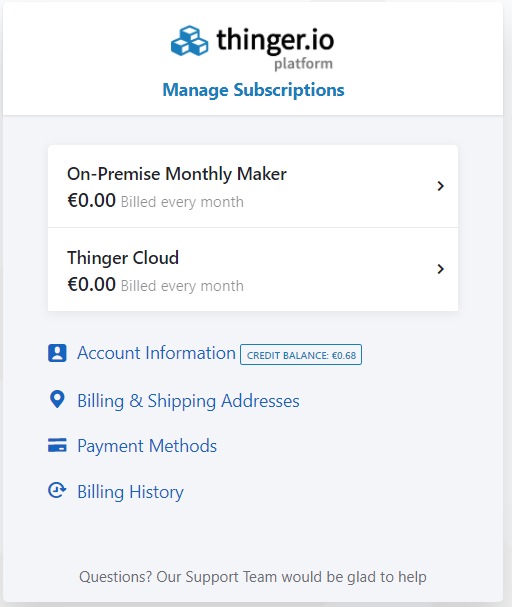
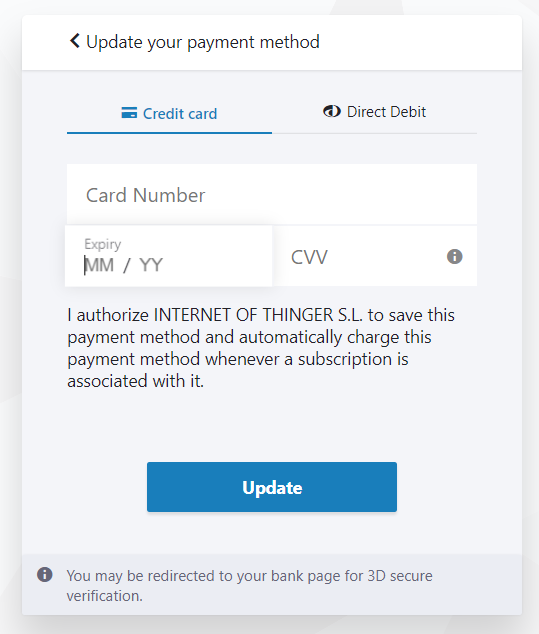
GitBook: [gh-pages] one page and 3 assets modified

diff --git a/server/deployment/README.md b/server/deployment/README.md
@@ -40,6 +40,8 @@ This portal allows to manage every subscription preferences such as **changing t
 
 ![](../../.gitbook/assets/image%20%28372%29.png)
 
+### Addons contracting
+
 The image below shows the different Addons that can be contracted for a Grow License. Note that Maker subscriptions will not be able to select these options:
 
 ![](../../.gitbook/assets/image%20%28315%29.png)
@@ -59,5 +61,9 @@ This process can be executed using the server administration panel as shown in t
 
 ![](../../.gitbook/assets/image%20%28313%29.png)
 
+#### Manage Payment Methods
 
+It is possible to modify the payment method by accessing the section "Payment Methods" where you can choose to make payments with a Credit Card or Direct Debit that allows the domiciliation of the payment with SEPA transferences.
+
+![](../../.gitbook/assets/image%20%28374%29.png)
 
